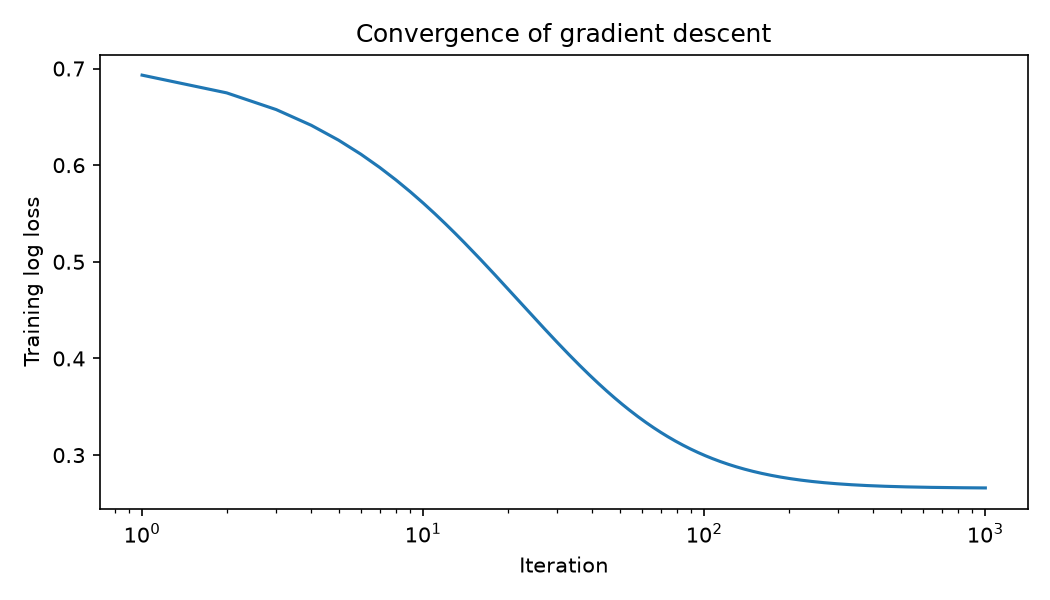
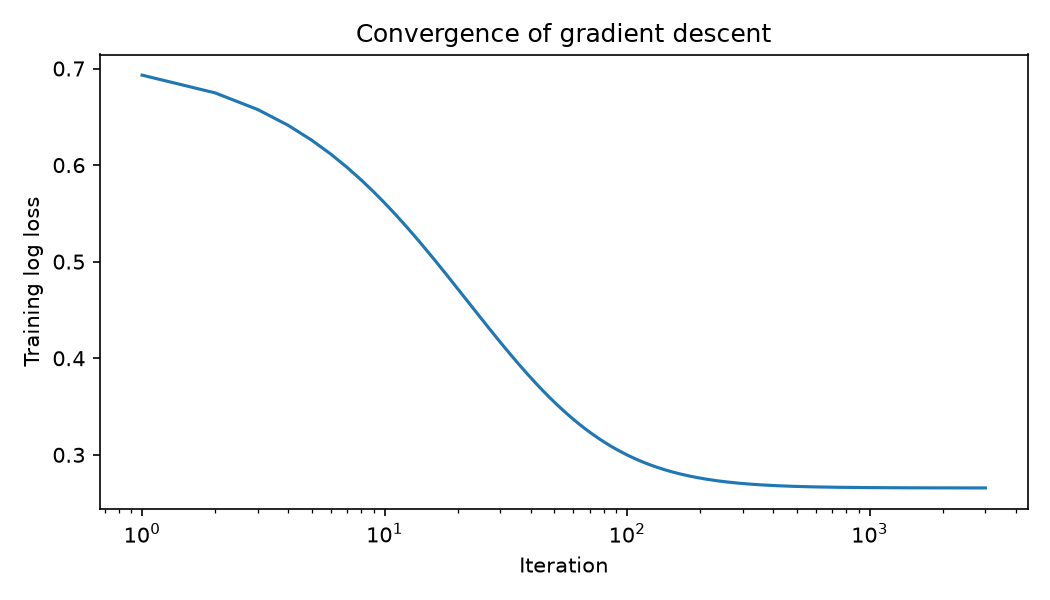
Train for 3000 iterations and add log distance and defender flag

diff --git a/src/xg_model/modelling/prepare.py b/src/xg_model/modelling/prepare.py
@@ -1,5 +1,6 @@
 """Prepare the feature table for model training."""
 
+import numpy as np
 import pandas as pd
 
 from xg_model.features.game_state import PENALTY_SHOOTOUT_PERIOD
@@ -8,6 +9,7 @@ FIRST_SEASON = 2003
 
 NUMERIC = [
     "distance",
+    "log_distance",
     "angle",
     "defenders_in_cone",
     "nearest_opponent_distance",
@@ -27,6 +29,7 @@ FLAGS = [
     "assist_cross",
     "assist_through_ball",
     "assist_cut_back",
+    "any_defender_in_cone",
     "goalkeeper_visible",
     "goalkeeper_in_cone",
     "is_home",
@@ -67,6 +70,14 @@ def fill_missing(table: pd.DataFrame) -> pd.DataFrame:
     )
 
 
+def add_transformations(table: pd.DataFrame) -> pd.DataFrame:
+    """Add reshaped versions of features whose effect is not linear."""
+    return table.assign(
+        log_distance=np.log1p(table["distance"]),
+        any_defender_in_cone=table["defenders_in_cone"] > 0,
+    )
+
+
 def one_hot(table: pd.DataFrame, column: str) -> pd.DataFrame:
     """Encode a category column as 0/1 columns, dropping the most common one."""
     baseline = table[column].mode()[0]
@@ -76,7 +87,11 @@ def one_hot(table: pd.DataFrame, column: str) -> pd.DataFrame:
 
 def prepare(table: pd.DataFrame) -> tuple[pd.DataFrame, pd.Series]:
     """Return the model inputs and the goal labels."""
-    table = fill_missing(filter_shots(table)).dropna(subset=NUMERIC)
+    table = filter_shots(table)
+    table = fill_missing(table)
+    table = add_transformations(table)
+    table = table.dropna(subset=NUMERIC)
+
     features = pd.concat(
         [
             table[NUMERIC].astype(float),

diff --git a/tests/modelling/test_prepare.py b/tests/modelling/test_prepare.py
@@ -1,8 +1,10 @@
 import math
 
 import pandas as pd
+import pytest
 
 from xg_model.modelling.prepare import (
+    add_transformations,
     fill_missing,
     filter_shots,
     one_hot,
@@ -102,3 +104,23 @@ def test_prepare_drops_rows_with_remaining_gaps():
     features, labels = prepare(table({}, {"nearest_opponent_distance": math.nan}))
 
     assert len(features) == len(labels) == 1
+
+
+def test_add_transformations_takes_log_of_distance():
+    result = add_transformations(table({"distance": math.e - 1}))
+
+    assert result["log_distance"].iloc[0] == pytest.approx(1)
+
+
+def test_add_transformations_flags_any_defender():
+    result = add_transformations(
+        table({"defenders_in_cone": 0.0}, {"defenders_in_cone": 3.0})
+    )
+
+    assert list(result["any_defender_in_cone"]) == [False, True]
+
+
+def test_prepare_includes_transformed_features():
+    features, _ = prepare(table({}))
+
+    assert {"log_distance", "any_defender_in_cone"} <= set(features.columns)

diff --git a/src/xg_model/modelling/train.py b/src/xg_model/modelling/train.py
@@ -14,6 +14,7 @@ from xg_model.modelling.scaling import Standardizer
 from xg_model.modelling.split import holdout_mask
 
 FIGURES_DIR = Path("docs/images")
+ITERATIONS = 3000
 
 
 def main() -> None:  # pragma: no cover
@@ -29,7 +30,9 @@ def main() -> None:  # pragma: no cover
     x_test, y_test = x[is_test], y[is_test]
 
     scaler = Standardizer().fit(x_train)
-    model = LogisticRegression().fit(scaler.transform(x_train), y_train)
+    model = LogisticRegression(iterations=ITERATIONS).fit(
+        scaler.transform(x_train), y_train
+    )
     predictions = model.predict_proba(scaler.transform(x_test))
 
     history = model.loss_history
